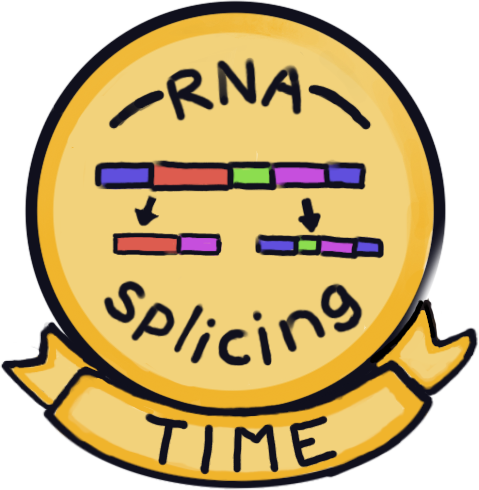
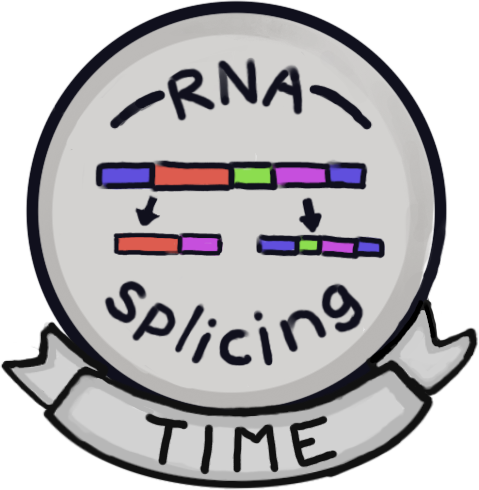
fixing badges and adding animation to cutscene

diff --git a/frontend/src/pages/Achievements.js b/frontend/src/pages/Achievements.js
@@ -9,29 +9,36 @@ import moleculesTime from '../assets/badges/molecules-time.png';
 import wirelessComplete from '../assets/badges/wireless-complete.png';
 import wirelessExpert from '../assets/badges/wireless-expert.png';
 import wirelessTime from '../assets/badges/wireless-time.png';
-import unavailableBadge from '../assets/badges/badge-unavailable.png';
+import allTime from '../assets/badges/all-time.png';
+import allComplete from '../assets/badges/all-complete.png';
+import allExpert from '../assets/badges/all-expert.png';
+import allBadges from '../assets/badges/all-badges.png';
+import allDefault from '../assets/badges/all-default.png';
+import unavailableBadgeDefault from '../assets/badges/unavailable-default.png';
+import unavailableBadgeExpert from '../assets/badges/unavailable-expert.png';
+import unavailableBadgeTime from '../assets/badges/unavailable-time.png';
 
 
 function AchievementsModal(props) {
 
     const [achievementsDict, setAchievementsDict] = useState({
-        'RNA-Complete': [false, rnaComplete],
-        'Molecules-Complete': [false, moleculesComplete],
-        'Wireless-Complete': [false, wirelessComplete],
+        'RNA-Complete': [false, rnaComplete, unavailableBadgeDefault],
+        'Molecules-Complete': [false, moleculesComplete, unavailableBadgeDefault],
+        'Wireless-Complete': [false, wirelessComplete, unavailableBadgeDefault],
 
-        'RNA-Expert': [false, rnaExpert],
-        'Molecules-Expert': [false, moleculesExpert],
-        'Wireless-Expert': [false, wirelessExpert],
+        'RNA-Expert': [false, rnaExpert, unavailableBadgeExpert],
+        'Molecules-Expert': [false, moleculesExpert, unavailableBadgeExpert],
+        'Wireless-Expert': [false, wirelessExpert, unavailableBadgeExpert],
 
-        'RNA-Time': [false, rnaTime],
-        'Molecules-Time': [false, moleculesTime],
-        'Wireless-Time': [false, wirelessTime],
+        'RNA-Time': [false, rnaTime, unavailableBadgeTime],
+        'Molecules-Time': [false, moleculesTime, unavailableBadgeTime],
+        'Wireless-Time': [false, wirelessTime, unavailableBadgeTime],
 
-        'All-Complete': [false, 'imgsrc'],
-        'All-Time': [false, 'imgsrc'],
-        'All-Expert': [false, 'imgsrc'],
-        'All-Complete-Expert': [false, 'imgsrc'],
-        'All-Achievements': [false, 'imgsrc'],
+        'All-Complete': [false, allDefault, unavailableBadgeDefault],
+        'All-Time': [false, allTime, unavailableBadgeTime],
+        'All-Expert': [false, allExpert, unavailableBadgeExpert],
+        'All-Complete-Expert': [false, allComplete, unavailableBadgeExpert],
+        'All-Achievements': [false, allBadges, unavailableBadgeExpert],
     })
 
     const changeAchievements = async () => {
@@ -113,7 +120,7 @@ function AchievementsModal(props) {
                         <div className='flex flex-wrap justify-between items-center w-full my-8'>
                             {Object.keys(achievementsDict).map((key) => {
                                 return (
-                                    <img key={key} className='w-[14%] h-auto p-2' src={achievementsDict[key][0] ? achievementsDict[key][1] : unavailableBadge} alt={key} />
+                                    <img key={key} className='w-[14%] h-auto p-2' src={achievementsDict[key][0] ? achievementsDict[key][1] : achievementsDict[key][2]} alt={key} />
                                 )
                             }
                             )}

diff --git a/frontend/src/components/ChallengeCutScene.js b/frontend/src/components/ChallengeCutScene.js
@@ -1,6 +1,8 @@
 import React, { useState } from "react";
 import buttonStyles from '../pages/Buttons.module.css'
+import scientistImg from '../assets/scientist.png'
 import styles from './ChallengeCutScene.module.css'
+import { motion, Variants } from 'framer-motion'
 
 
 function ChallengeCutScene({ cutSceneList, startChallenge}) {
@@ -14,16 +16,78 @@ function ChallengeCutScene({ cutSceneList, startChallenge}) {
         console.log(slide);
     }
 
+    const splitString = (text) => {
+        const characters = [];
+        const regex = /[\s\S]/gu;
+        let match;
+        while ((match = regex.exec(text)) !== null) {
+            characters.push(match[0]);
+        }
+        return characters;
+    }
+
+    const splitText = splitString(cutSceneList[slide].text);
+    console.log(splitText);
+
+    const charVariants = {
+        hidden: { opacity: 0 },
+        reveal: {
+            opacity: 1,
+        }
+    }
+
+    const scientistVariants = {
+        rotate: {
+            rotate: 30,
+            transition: {
+                duration:0.8, 
+                repeat: Infinity,
+                repeatType: "reverse",
+            }
+        }
+    }
+
     return (
         <div className="flex flex-col items-center justify-between w-full h-full m-4">
-            <div className='flex flex-col items-center py-2 md:py-20 w-3/4'>
-                <p className='text-xl m-8'>{cutSceneList[slide].text}</p>
-                <button 
-                className={`${styles.button} ${buttonStyles.redButton}`} 
-                onClick={
-                    slide === cutSceneList.length - 1 ? startChallenge :
-                    nextSlide}>{cutSceneList[slide].button}</button>
+            <div className='relative flex-col items-center py-2 md:py-20 w-3/4'>
+                <motion.p 
+                    key={slide}
+                    className='text-xl m-8'
+                    initial='hidden' 
+                    whileInView="reveal"
+                    transition={{staggerChildren: 0.02}}
+                >
+                    {
+                        splitText.map((char, index) => {
+                            return (
+                                <motion.span
+                                  key={index} 
+                                  transition={{duration: 0.2}} 
+                                  variants={charVariants} 
+                                >
+                                    {char}
+                                </motion.span>
+                            )
+                        })
+                    }
+                </motion.p>
+                <motion.div 
+                  className="w-32 absolute bottom-4 right-2"
+                  whileInView={"rotate"}
+                >  
+                    <motion.img 
+                      src={scientistImg}
+                      variants={scientistVariants}
+                      />
+                </motion.div>        
+                
             </div>
+            <button 
+                    className={`${styles.button} ${buttonStyles.redButton}`} 
+                    onClick={
+                        slide === cutSceneList.length - 1 ? startChallenge :
+                    nextSlide}>{cutSceneList[slide].button}
+                </button>
         </div>
     );
 }

diff --git a/frontend/src/pages/Challenge.js b/frontend/src/pages/Challenge.js
@@ -12,7 +12,18 @@ const challengeData = {
     StageOne: {
       title: "RNA Splicing",
       description: "Drag each block of RNA to form a complete protein!",
+      cutScene: [
+        {
+          text: "Welcome to our RNA splicing station! After our cells write a messenger RNA, a.k.a. mRNA, which contains information to make our proteins, we need to select the parts of the mRNA which are called “exons” that will actually be used for coding our protein to help create life-saving new drug treatments! The rest, called “introns,” are spliced, or cut out.",
+          button: "Got it!"
+        },
+        {
+          text: "But not all proteins are functional! For the mRNA to make a functional protein, we need to select the right introns and exons. But, our records of what the introns and exons are in each mRNA got lost during the earthquake. Can you help us choose the right exons to make a protein that works?",
+          button: "Yes!"
+        },
+      ]
     },
+    
     StageTwo: {
       title: "RNA Splicing",
       description: "Select all the introns in the given RNA sequence.",
@@ -162,12 +173,13 @@ function Challenge() {
           ) : (
             <div className={styles.overlay}>
 
-              <ChallengeCutScene cutSceneList={challengeData[challengeName][selectedLevel].cutScene} startChallenge={() => {
-                  onStart();
-                  setHasStarted(true);
-                }} />
+              {challengeData[challengeName][stage].cutScene ? 
+                <ChallengeCutScene cutSceneList={challengeData[challengeName][stage].cutScene} startChallenge={() => {
+                onStart();
+                setHasStarted(true);
+              }} /> : 
 
-              {/* <button
+              <button
                 className={styles.startButton}
                 onClick={() => {
                   onStart();
@@ -175,7 +187,12 @@ function Challenge() {
                 }}
               >
                 Start
-              </button> */}
+              </button>
+            }
+              
+
+
+              
             </div>
           )}
         </div>
